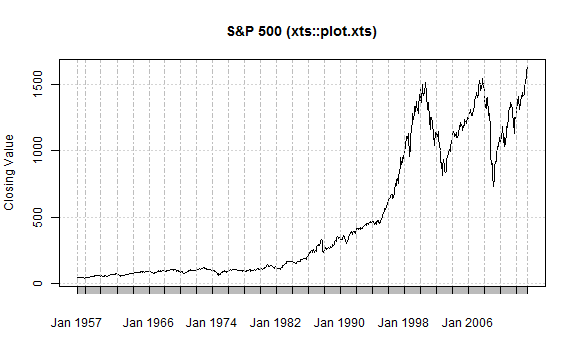
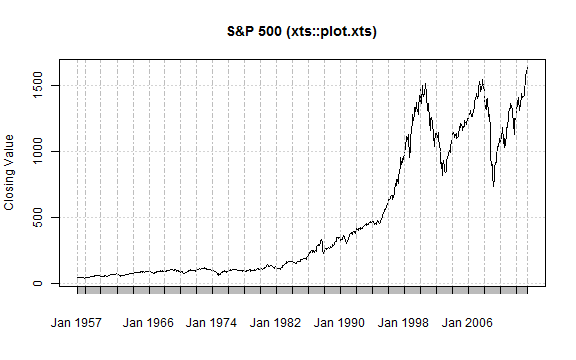
remove remnants from rCharts .rmd copy /paste
thanks @ramnathv

diff --git a/history.html b/history.html
@@ -3,7 +3,7 @@
   <head>
     <meta charset="utf-8">
     <meta http-equiv="X-UA-Compatible" content="chrome=1">
-    <title>R Charting of Time Series</title>
+    <title>R Time Series Plotting</title>
     <link rel="stylesheet" href="libraries/frameworks/minimal/stylesheets/styles.css">
     <link rel="stylesheet" href="libraries/highlighters/highlight.js/css/solarized_light.css">
     <meta name="viewport" content="width=device-width, initial-scale=1, user-scalable=no">
@@ -33,23 +33,21 @@
   <body>
     <div class="wrapper">
 <header>
-  <h1><img src=libraries/frameworks/minimal/images/rCharts.png /></h1>
-  <p>History from plot.default to rCharts</p>
-  <pre><code class='r'>require(devtools)
-install_github('rCharts', 'ramnathv')</code></pre>
+  <h1> R Time Series Plotting </h1>
+  <p>from plot.default to rCharts</p>
   <p class="view">
-    <a href="http://github.com/ramnathv/rCharts">
-     View the Project on GitHub <small>ramnathv/rCharts</small>
+    <a href="http://github.com/timelyportfolio/rCharts_time_series">
+     View the Project on GitHub <small>timelyportfolio/rCharts_time_series</small>
     </a>
   </p>
   <ul class='buttons'>
-    <li><a href="https://github.com/ramnathv/rCharts/zipball/gh-pages">
+    <li><a href="https://github.com/timelyportfolio/rCharts_time_series/zipball/gh-pages">
       Download <strong>ZIP File</strong>
     </a></li>
-    <li><a href="https://github.com/ramnathv/rCharts/tarball/gh-pages">
+    <li><a href="https://github.com/timelyportfolio/rCharts_time_series/tarball/gh-pages">
       Download <strong>TAR Ball</strong>
     </a></li>
-    <li><a href="http://github.com/ramnathv/rCharts">
+    <li><a href="http://github.com/timelyportfolio/rCharts_time_series">
       Fork On <strong>GitHub</strong></a>
     </li>
   </ul>
@@ -200,6 +198,10 @@ charts.PerformanceSummary(
 )
 </code></pre>
 
+<pre><code>Error: no applicable method for &#39;time&lt;-&#39; applied to an object of class
+&quot;c(&#39;xts&#39;, &#39;zoo&#39;)&quot;
+</code></pre>
+
 <p><img src="assets/fig/unnamed-chunk-7.png" alt="plot of chunk unnamed-chunk-7"> </p>
 
 <hr>
@@ -230,7 +232,8 @@ chartSeries(
 )
 </code></pre>
 
-<p><img src="assets/fig/unnamed-chunk-9.png" alt="plot of chunk unnamed-chunk-9"> </p>
+<pre><code>Error: object &#39;sp500.monthly&#39; not found
+</code></pre>
 
 <p>Just look how easy it is to zoom.</p>
 
@@ -238,7 +241,8 @@ chartSeries(
 zoomChart(&quot;1990::&quot;)
 </code></pre>
 
-<p><img src="assets/fig/unnamed-chunk-10.png" alt="plot of chunk unnamed-chunk-10"> </p>
+<pre><code>Error: improperly set or missing graphics device
+</code></pre>
 
 <hr>
 
@@ -4448,10 +4452,10 @@ n1$print(&quot;chart1&quot;)
 "value": 1630.7 
 },
 {
- "date":  15870,
+ "date":  15873,
 "indexname": "SP500",
 "metric": "price",
-"value": 1626.7 
+"value":   1639 
 } 
 ]
   
@@ -4517,7 +4521,7 @@ n1$print(&quot;chart1&quot;)
 
       </section>
       <footer>
-        <p>Maintained by <a href="http://github.com/ramnathv">
+        <p>Maintained by <a href="http://github.com/timelyportfolio">
           Timely Portfolio
         </a></p>
         <p><small>Hosted on GitHub Pages &mdash; Theme by 

diff --git a/libraries/frameworks/minimal/partials/header.html b/libraries/frameworks/minimal/partials/header.html
@@ -1,8 +1,6 @@
 <header>
-  <h1><img src={{{ page.logo }}} /></h1>
+  <h1> {{{ page.title }}} </h1>
   <p>{{{ page.subtitle }}}</p>
-  <pre><code class='r'>require(devtools)
-install_github('rCharts', 'ramnathv')</code></pre>
   {{# page.github }}
   <p class="view">
     <a href="http://github.com/{{user}}/{{repo}}">

diff --git a/history.md b/history.md
@@ -1,13 +1,12 @@
 ---
-title: R Charting of Time Series
-subtitle: History from plot.default to rCharts
+title: R Time Series Plotting
+subtitle: from plot.default to rCharts
 author: Timely Portfolio
-github: {user: ramnathv, repo: rCharts, branch: "gh-pages"}
+github: {user: timelyportfolio, repo: rCharts_time_series, branch: "gh-pages"}
 framework: minimal
 mode: selfcontained
 ext_widgets: {rCharts: ["libraries/morris","libraries/nvd3", "libraries/polycharts", "libraries/highcharts","libraries/xcharts", "libraries/rickshaw"]}
 hitheme: solarized_light
-logo: libraries/frameworks/minimal/images/rCharts.png
 ---
 
 <style>
@@ -176,6 +175,11 @@ charts.PerformanceSummary(
 )
 ```
 
+```
+Error: no applicable method for 'time<-' applied to an object of class
+"c('xts', 'zoo')"
+```
+
 ![plot of chunk unnamed-chunk-7](assets/fig/unnamed-chunk-7.png) 
 
 
@@ -215,7 +219,9 @@ chartSeries(
 )
 ```
 
-![plot of chunk unnamed-chunk-9](assets/fig/unnamed-chunk-9.png) 
+```
+Error: object 'sp500.monthly' not found
+```
 
 
 Just look how easy it is to zoom.
@@ -226,7 +232,9 @@ Just look how easy it is to zoom.
 zoomChart("1990::")
 ```
 
-![plot of chunk unnamed-chunk-10](assets/fig/unnamed-chunk-10.png) 
+```
+Error: improperly set or missing graphics device
+```
 
 
 - - -
@@ -4455,10 +4463,10 @@ n1$print("chart1")
 "value": 1630.7 
 },
 {
- "date":  15870,
+ "date":  15873,
 "indexname": "SP500",
 "metric": "price",
-"value": 1626.7 
+"value":   1639 
 } 
 ]
   
